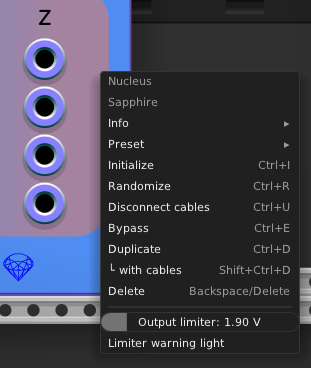
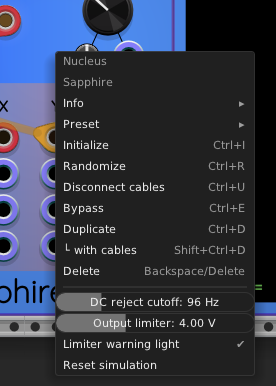
Nucleus/Polynucleus: documented DC reject cutoff slider.

diff --git a/Nucleus.md b/Nucleus.md
@@ -53,7 +53,12 @@ which is often helpful for making CV control easier to adjust.
 
 
 ### Mode button (AUDIO/CONTROL)
-This button toggles between AUDIO mode and CONTROL mode. In AUDIO mode, the output vectors are filtered with a DC-reject highpass filter. This filter has a corner frequency of 30&nbsp;Hz. In CONTROL mode, the output vectors directly represent the raw position vectors in space, without any DC rejection applied.
+<a name="audio_mode"></a>
+This button toggles between AUDIO mode and CONTROL mode.
+In AUDIO mode, the output vectors are filtered with a DC-reject highpass filter.
+This filter has a cutoff frequency of 30&nbsp;Hz.
+In CONTROL mode, the output vectors directly represent the raw position vectors in space,
+without any DC rejection applied.
 
 In AUDIO mode, the word "AUDIO" appears above the button, and the button lights up:
 
@@ -125,7 +130,20 @@ Nucleus's context menu looks like this:
 
 <img src="images/nucleus_context_menu.png"/>
 
-It includes a couple of options for an output limiter, as described below.
+It includes a couple of options for a DC reject filter and an output limiter, as described below.
+
+### DC Reject Cutoff
+
+In [AUDIO mode](#audio_mode), Nucleus sends its outputs through a DC reject filter.
+This is a high-pass filter with a default cutoff frequency of 30&nbsp;Hz.
+You can use the &quot;DC reject cutoff&quot; slider to adjust the cutoff
+frequency to any value from 20&nbsp;Hz to 400&nbsp;Hz. This adjustment
+can help mitigate excessive bass rumble and bring more focus to midrange
+and treble frequencies.
+
+When AUDIO mode is disabled, the slider is still present but it has
+no effect, because the output is sent directly from the Nucleus engine
+to the output ports.
 
 ### Output limiter
 

diff --git a/CHANGELOG.md b/CHANGELOG.md
@@ -9,6 +9,17 @@
 </tr>
 
 <tr valign="top">
+<td align="center">19 Apr 2024</td>
+<td align="center">2.4.4</td>
+<td align="left">
+    <ul>
+        <li>Nucleus and Polynucleus: added a right-click slider for adjusting the DC reject filter's corner frequency. Before this change, both modules had a fixed corner frequency of 30&nbsp;Hz. This is still
+        the default frequency, but now the right-click menu allows you to change the corner frequency to any value from 20&nbsp;Hz to 400&nbsp;Hz.</li>
+    </ul>
+</td>
+</tr>
+
+<tr valign="top">
 <td align="center">18 Mar 2024</td>
 <td align="center">2.4.3</td>
 <td align="left">
